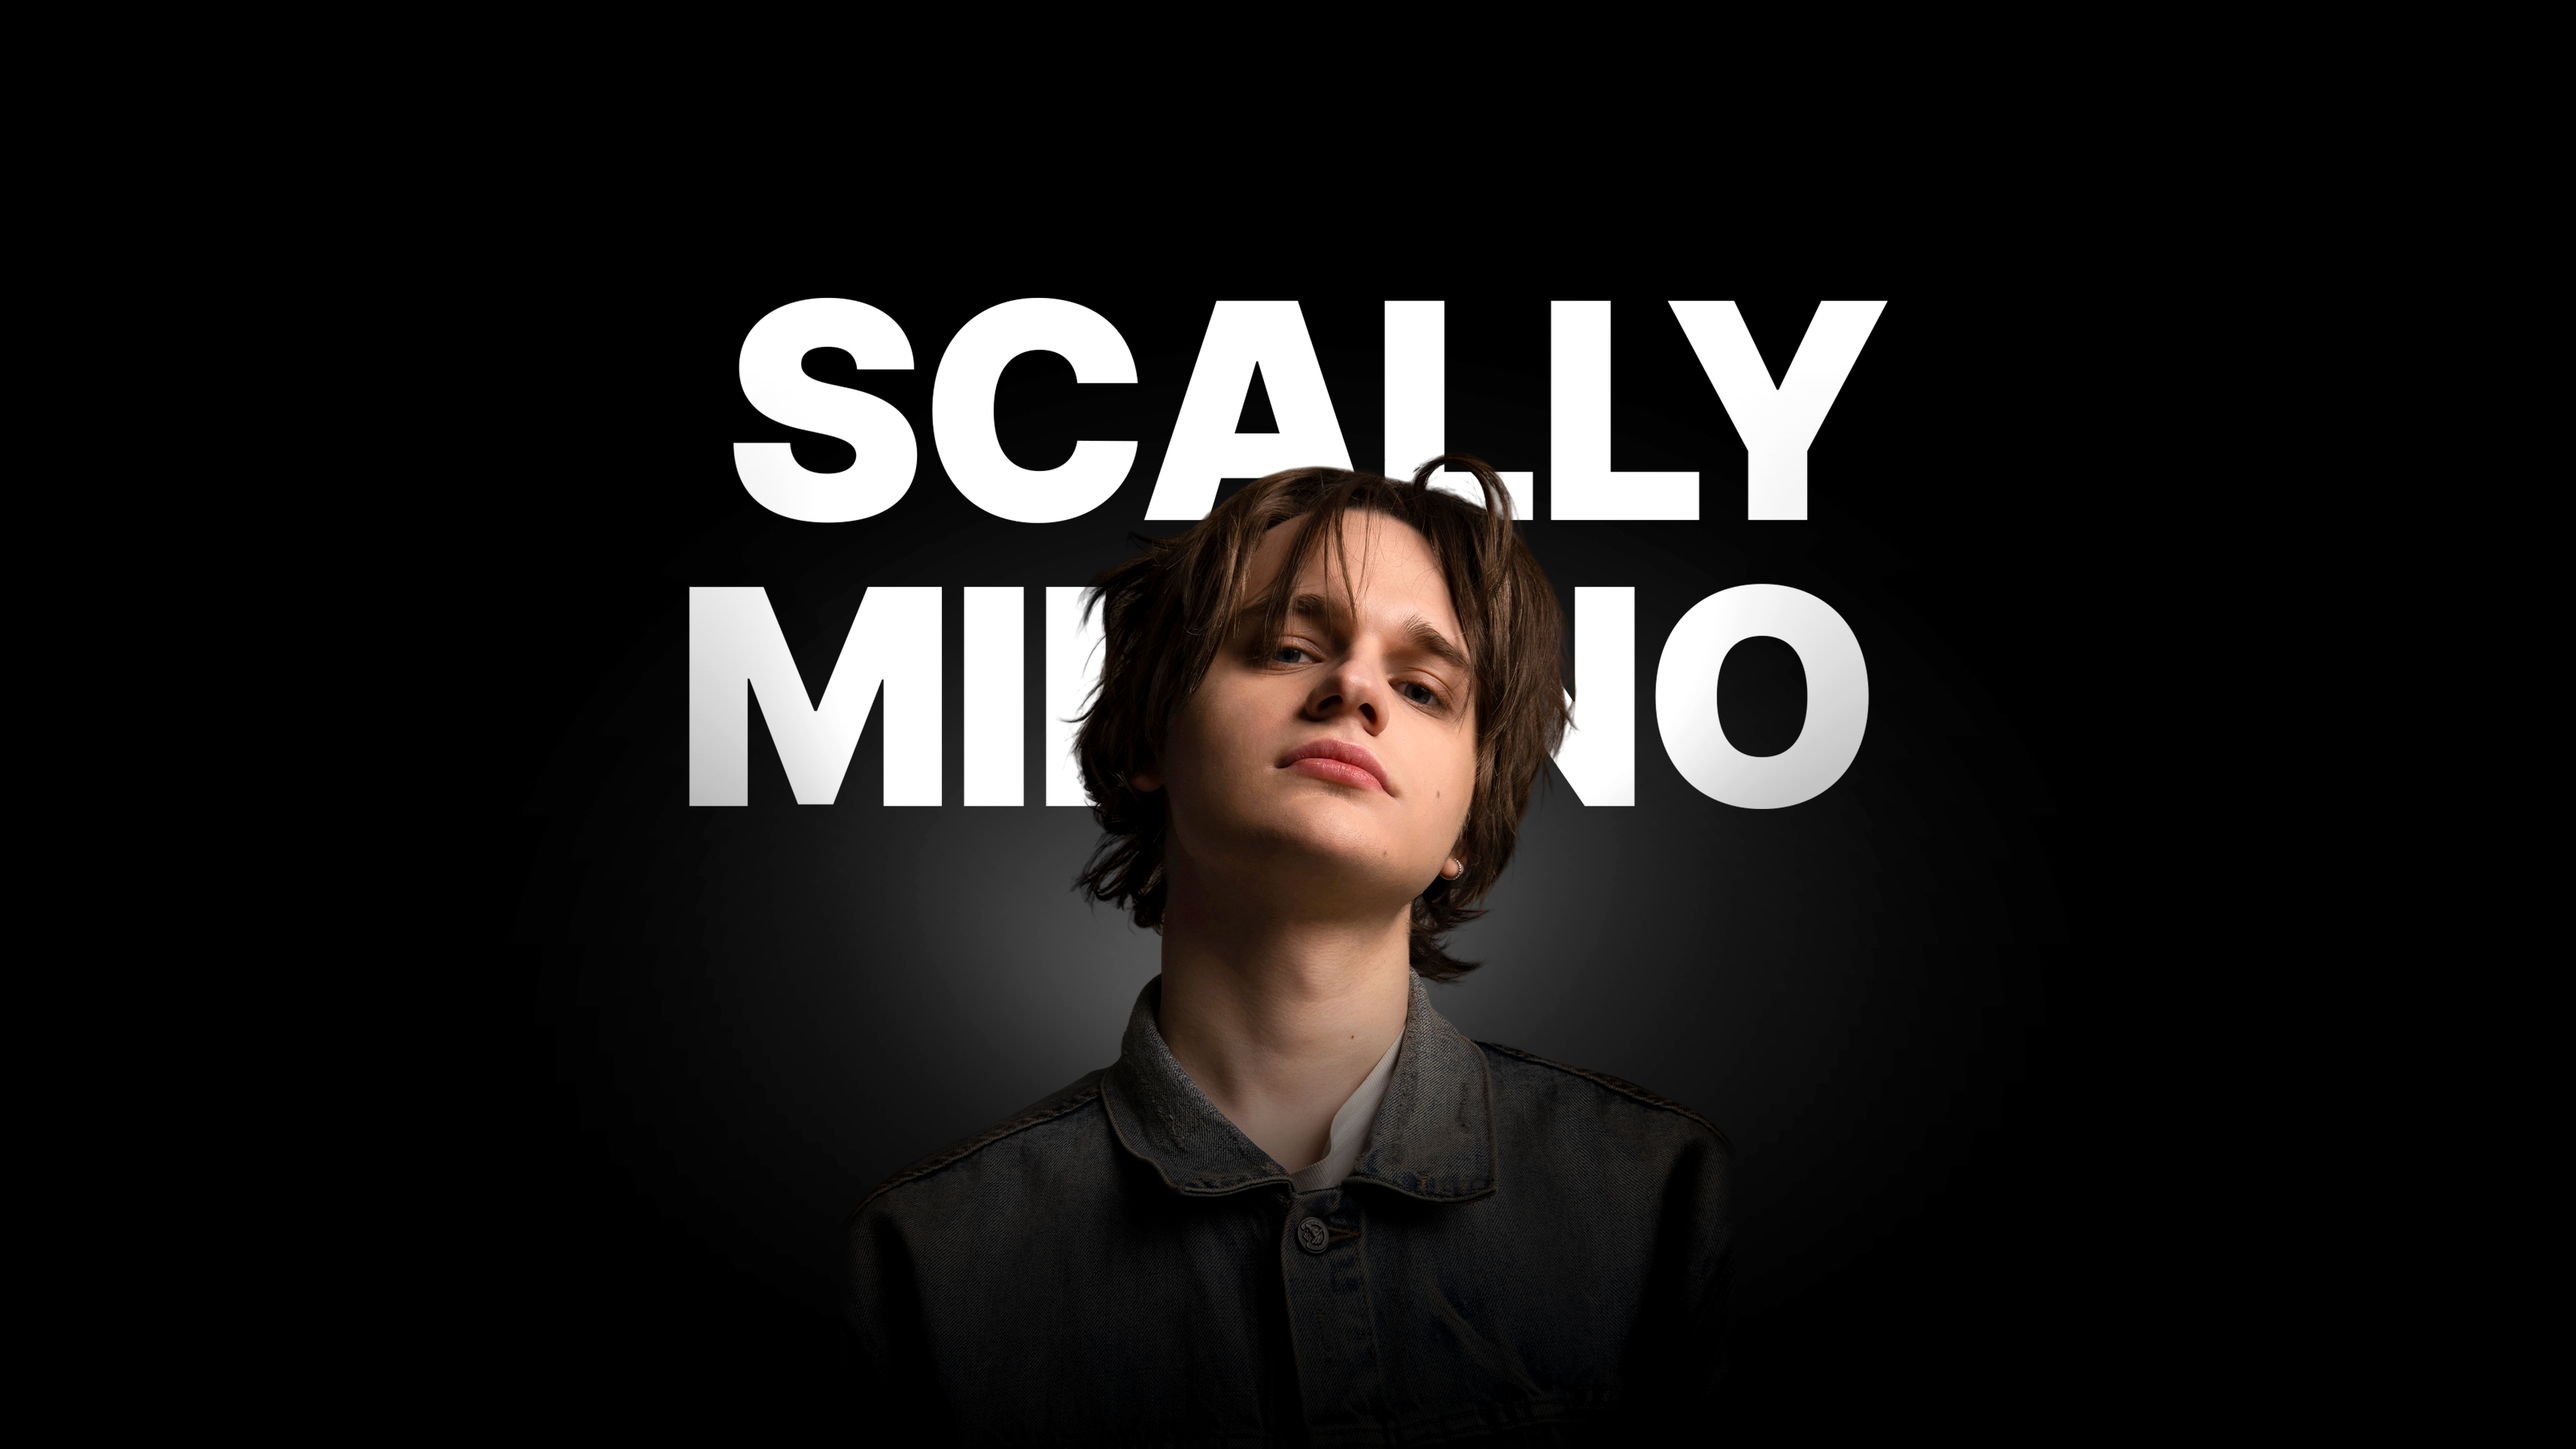
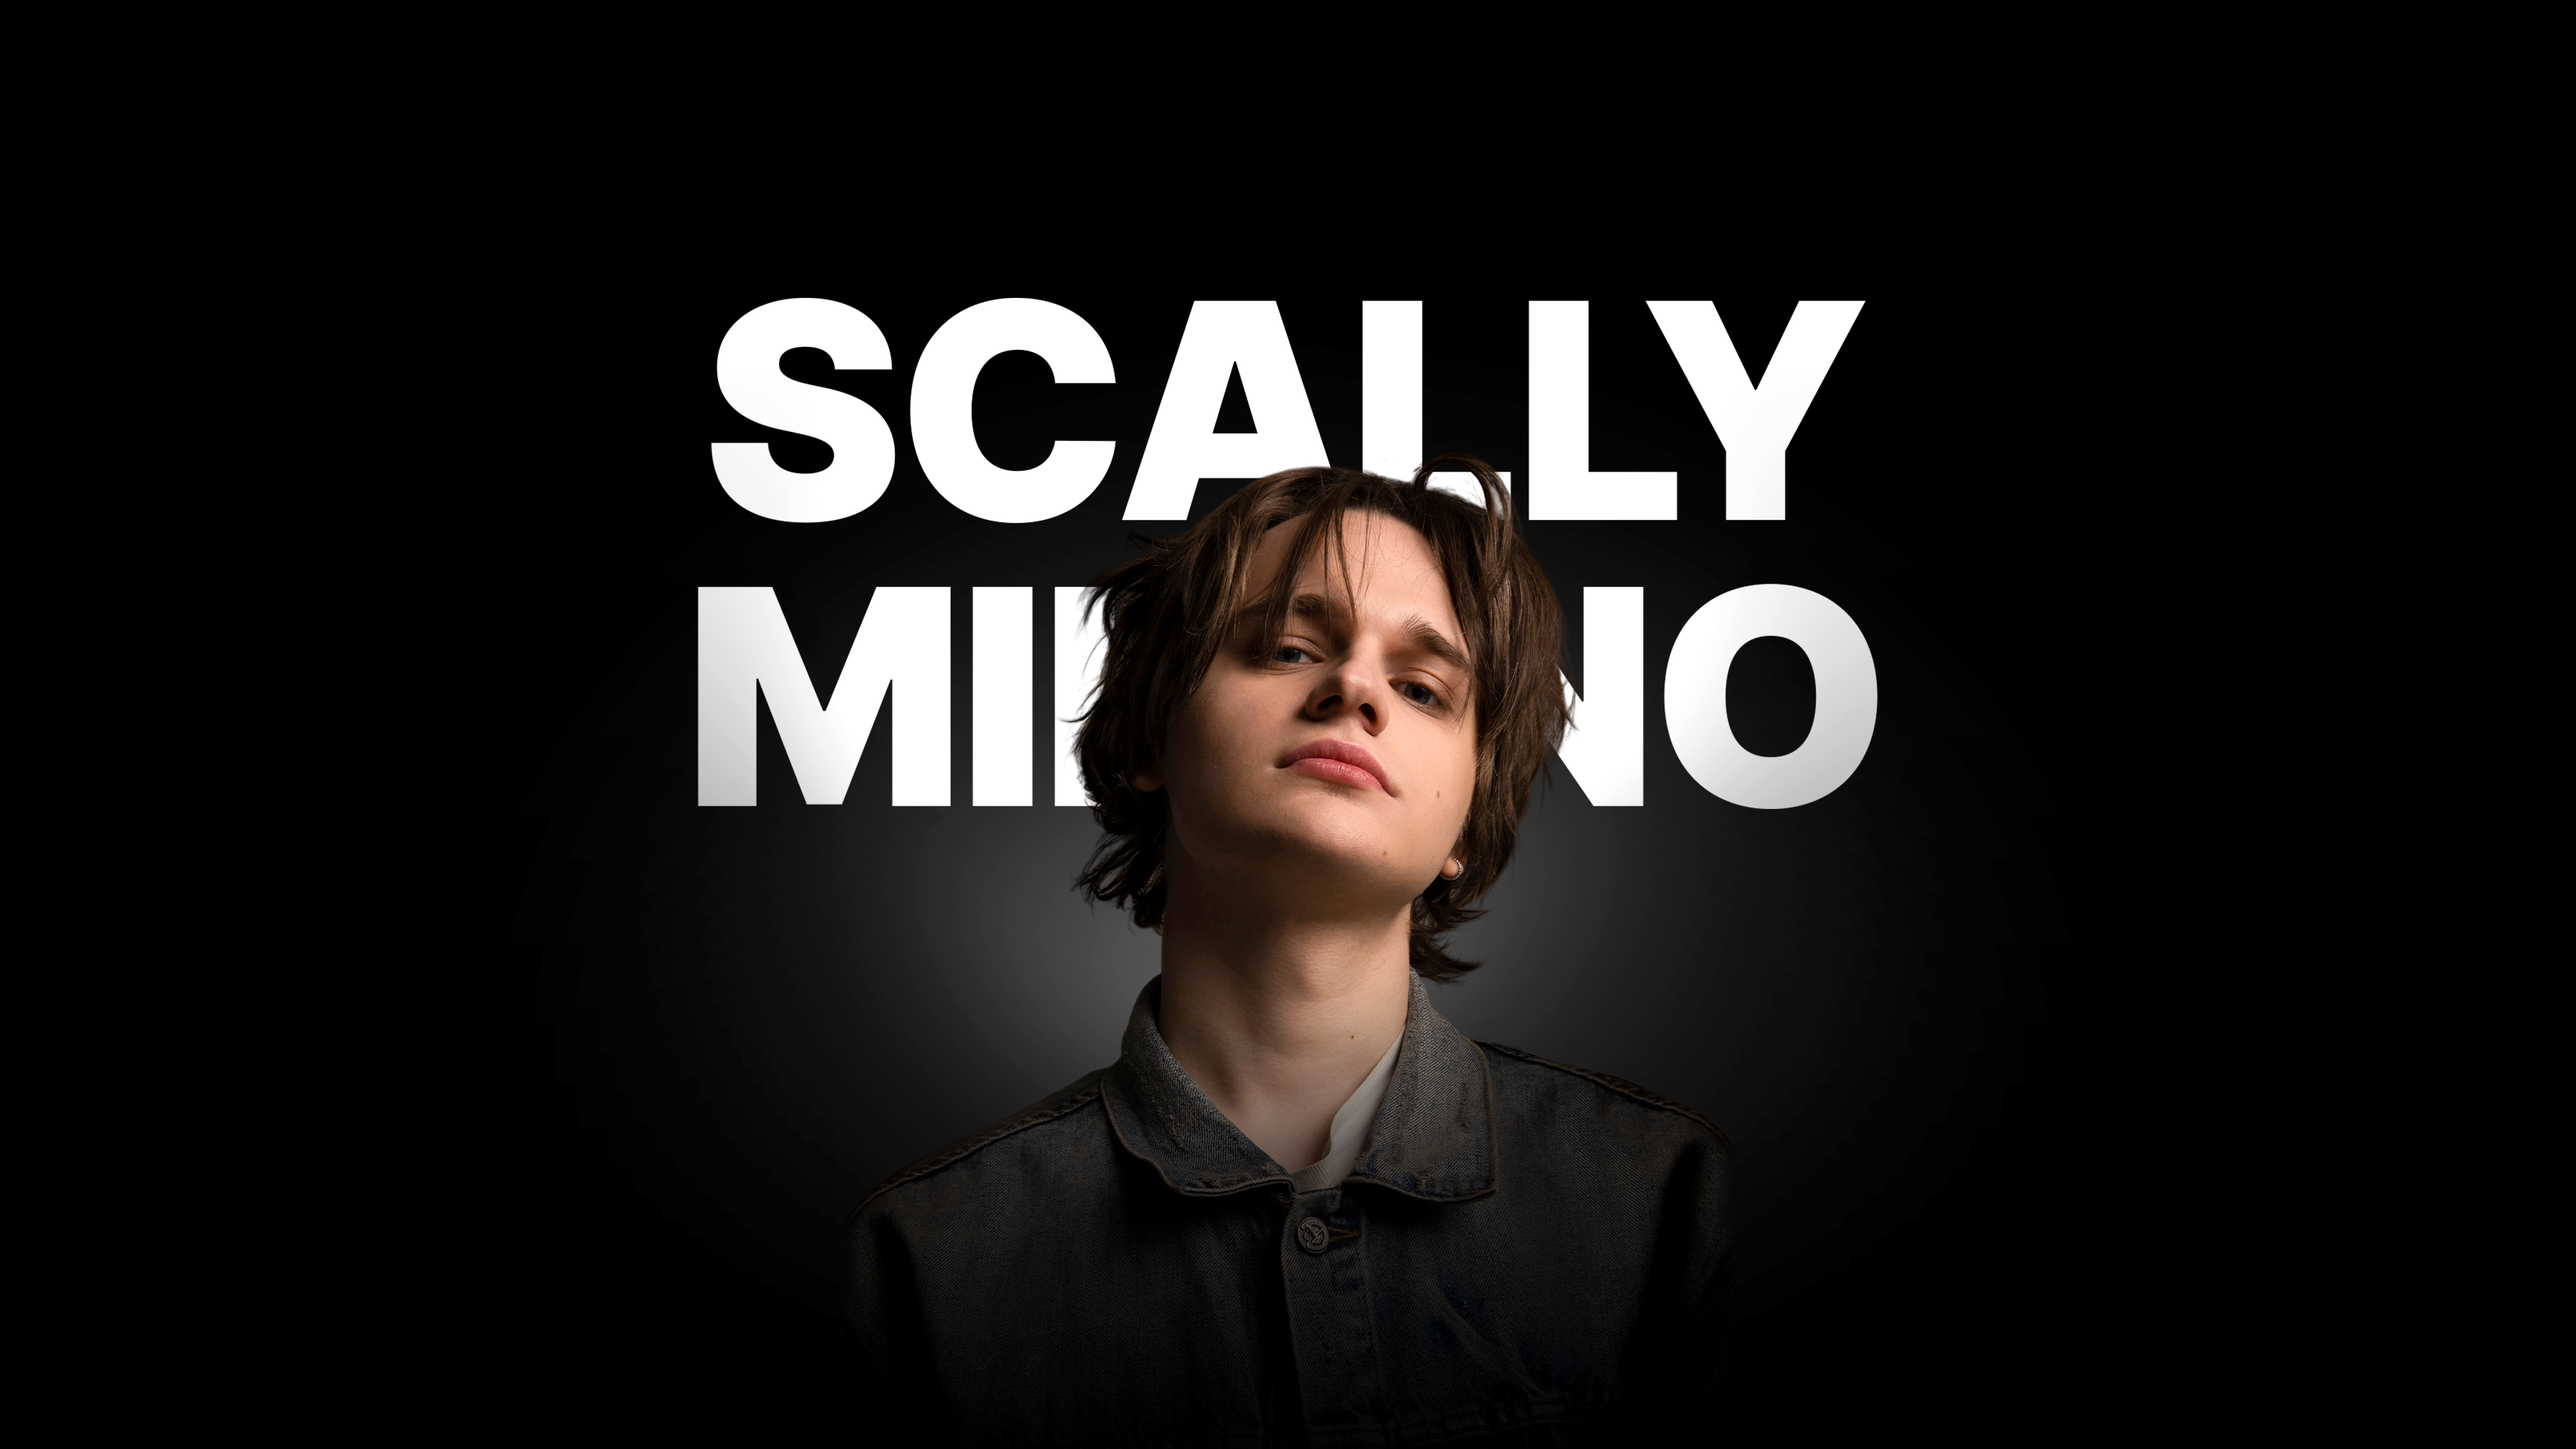
Обновить герой: новые webp для десктопа и мобилы

Changed region(s): [[0.25, 0.1861, 0.75, 0.3722], [0.25, 0.4032, 0.4375, 0.5583], [0.5938, 0.4032, 0.75, 0.5583]]

diff --git a/src/content/site.ts b/src/content/site.ts
@@ -7,7 +7,7 @@ export const site: SiteConfig = {
   artistName: "Scally Milano",
   pageTitle: "Scally Milano — концерты",
   description: "Концерты и билеты Scally Milano.",
-  /** Герой: десктоп `public/hero-desktop.webp`, мобила `public/hero-mobile.webp` (см. `hero-art.module.css`). */
+  /** Герой: десктоп из корня «комп new.webp» → `public/hero-desktop.webp`, мобила «моб новое решение.webp» → `hero-mobile.webp`. */
   heroImage: "/hero-desktop.webp",
   ticketFallbackUrl: "https://t.me/scallymilanogram",
   socials: [

diff --git a/src/components/hero-art.module.css b/src/components/hero-art.module.css
@@ -1,4 +1,4 @@
-/* Совпадает с site.heroImage (десктоп) и public/hero-mobile.webp (мобила). Исходники в корне репозитория. */
+/* Совпадает с site.heroImage (десктоп) и public/hero-mobile.webp (мобила). Исходники в корне: «комп new.webp», «моб новое решение.webp». */
 
 .shell {
   -webkit-touch-callout: none;
